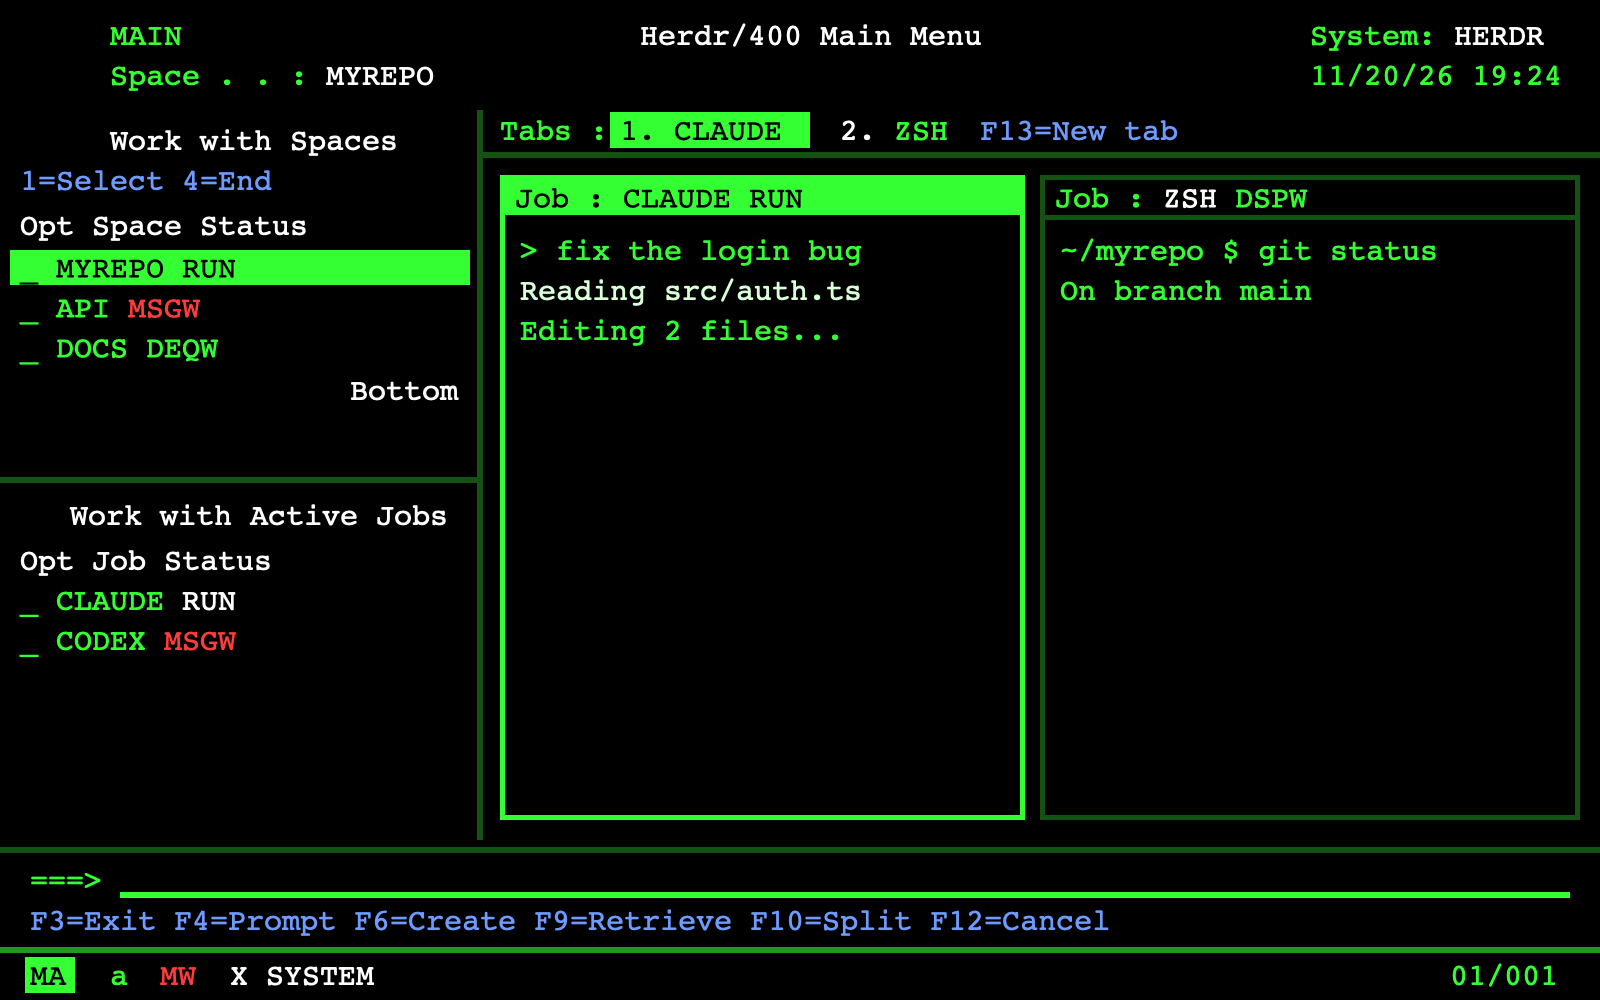
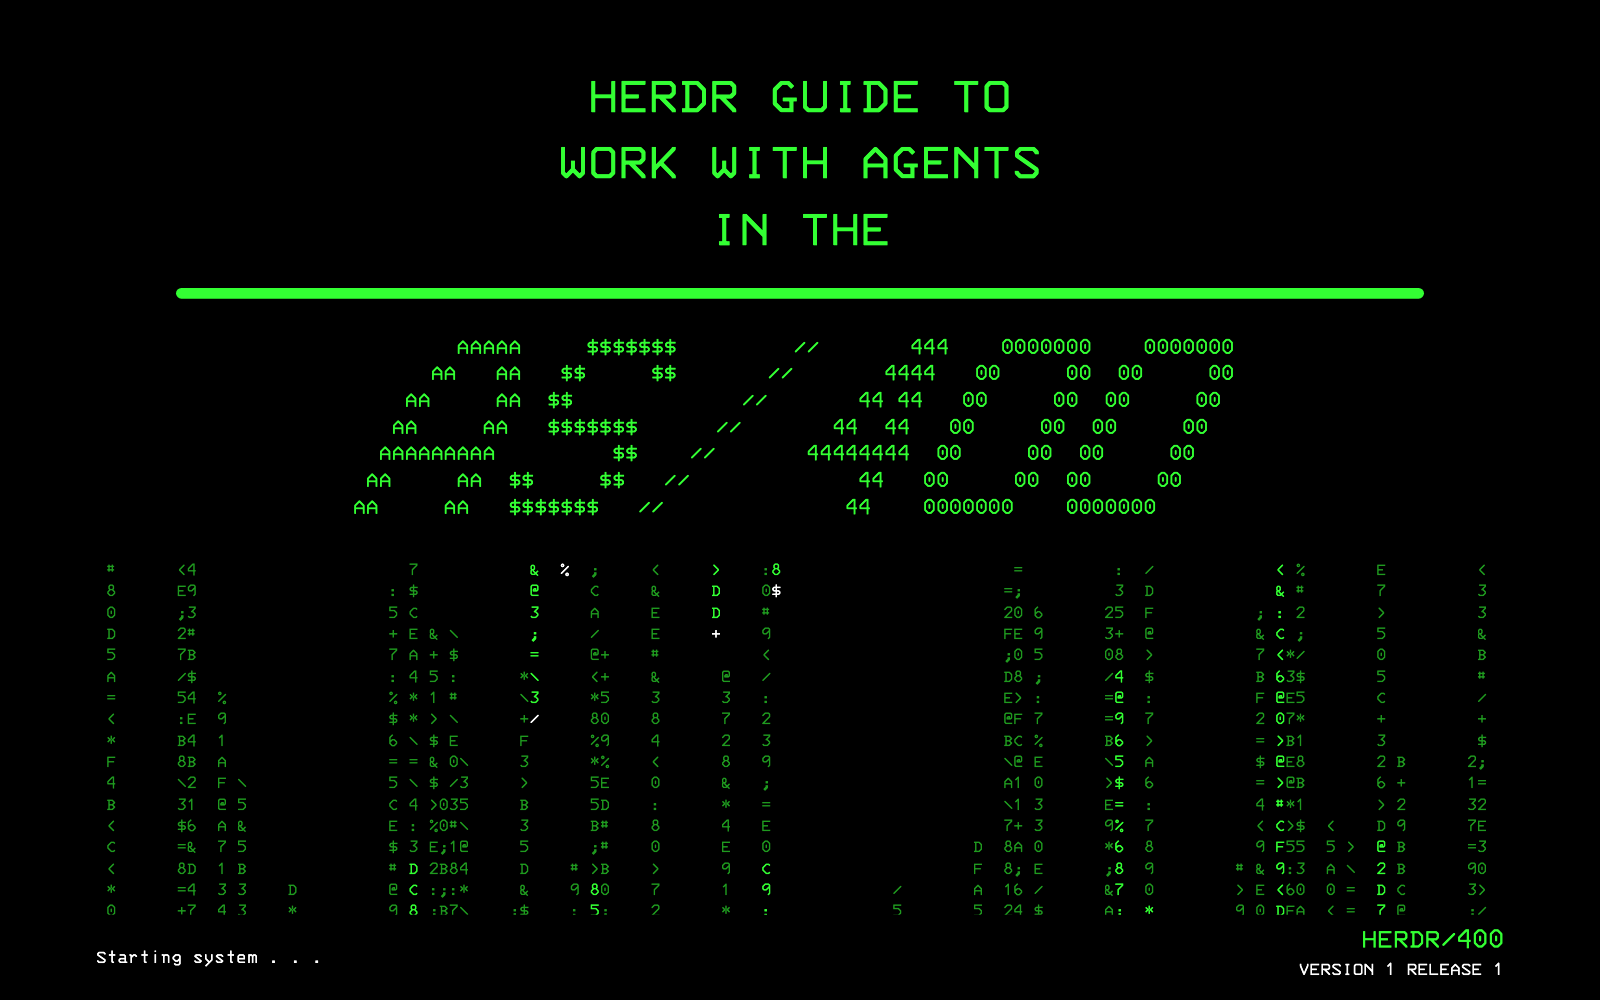
Use the title screen as the gallery preview
preview.png now shows the title screen, rendered from preview.svg with
headless Chrome so the bundled IBM 3270 font is used.

diff --git a/RECIPE.md b/RECIPE.md
@@ -53,7 +53,7 @@ Top to bottom; everything is black (`#000000`) with no title bar; traffic lights
 - **Layout** `layouts/ibm-as400.json`: `root` column [`header` block, `screen` row [`sidebar` column [`spaces`, `jobs`], `work` column [`tabs`, `main` (`tab: active` with pane frames and a `pane` header)]], `console` block]. Every block is the `ibm-as400` mod with props `{ view }`: `header`, `spaces`, `jobs`, `tabs`, `pane` (the pane header), `console`. Root look: `theme: "graphite"` with every color overridden in `colors` (background, chrome, canvas, surface, popover all `#000000`; foreground and accent `#33ff33`; status colors; `ansi0`..`ansi15` as the 5250 palette), `font` and `ui_font` `IBM 3270`, `font_size` 17, `terminal_padding` [8, 6], `titlebar: "none"`, `preview: "layouts/ibm-as400.svg"`.
 - **Mod** `ibm-as400` (MIT): one `View`; `props().view` picks `init_<view>` / `draw_<view>`. Its popup is the view `opt`, opened with `openOverlay({ kind: "popup", frame: "none" })`; the title screen is the view `boot`, a modal `dialog` with `frame: "none"` at width and height 1, opened by the `header` view when `ps -o etime= -p $PPID` says Herdr started under 45 seconds ago. It uses `spaces`, `agents`, `panes`, `setAgentOrder`, `exec("hostname", ["-s"])` once, `InputState` / `Input` from `gpui-base`, and `.loop("opacity")` for the blink. Commands: `space.select/new/close/rename`, `tab.select/new/close/rename/prev/next`, `pane.focus/zoom/split/close`, `agent.focus`, `terminal.peek/kill`, `layout.switch`, `app.palette/settings/help`.
 - **Font**: `mods/ibm-as400/fonts/3270-Regular.ttf` (family `IBM 3270`, v3.0.1 from github.com/rbanffy/3270font, BSD-3-Clause, license in `fonts/LICENSE-3270.txt`). Herdr loads fonts from a mod's `fonts/` folder.
-- **Art**: `layouts/ibm-as400.svg` (the settings picture); `preview.png` is it rendered at 1600×1000.
+- **Art**: `layouts/ibm-as400.svg` (the settings picture); `preview.png` is the title screen, `preview.svg` rendered at 1600×1000.
 - No shipped mods are used.
 
 ## Watch out

diff --git a/AGENTS.md b/AGENTS.md
@@ -4,11 +4,19 @@ Notes for AI agents working on this repository. What the layout looks like and h
 
 ## Publishing
 
-This is a layout for the [herdr.dev gallery](https://herdr.dev/gallery/). The repository root mirrors `~/.config/herdr-app` (`layouts/<name>.json` and `mods/<name>/`), plus `RECIPE.md` and `preview.png`. A public repository with the GitHub topic `herdr-layout` shows up in the gallery within the hour. How to write `RECIPE.md` is described under "Layouts and mods other people made" in the `~/.config/herdr-app/AGENTS.md` that Herdr App generates.
+This is a layout for the [herdr.dev gallery](https://herdr.dev/gallery/). The repository root mirrors `~/.config/herdr-app` (`layouts/<name>.json` and `mods/<name>/`), plus `RECIPE.md`, `preview.png` and its source `preview.svg`. A public repository with the GitHub topic `herdr-layout` shows up in the gallery within the hour. How to write `RECIPE.md` is described under "Layouts and mods other people made" in the `~/.config/herdr-app/AGENTS.md` that Herdr App generates.
 
 Keep it self-contained: no `keys.json`, no theme file (the colors are on the layout root), and the font ships in the mod's `fonts/`.
 
-`preview.png` is rendered from `layouts/ibm-as400.svg` (`qlmanage -t -s 1600`, cropped to 1600×1000). Don't use a real `herdr-app shot`: it shows your own spaces and terminals.
+`preview.png` is the title screen, rendered from `preview.svg` with headless Chrome (qlmanage doesn't load the bundled font the SVG points at):
+
+```bash
+"/Applications/Google Chrome.app/Contents/MacOS/Google Chrome" --headless --hide-scrollbars \
+  --window-size=1200,750 --force-device-scale-factor=1.3333333 --virtual-time-budget=5000 \
+  --screenshot="$PWD/preview.png" "file://$PWD/preview.svg"
+```
+
+Don't use a real `herdr-app shot`: it shows your own spaces and terminals.
 
 ## Running it while developing
 
